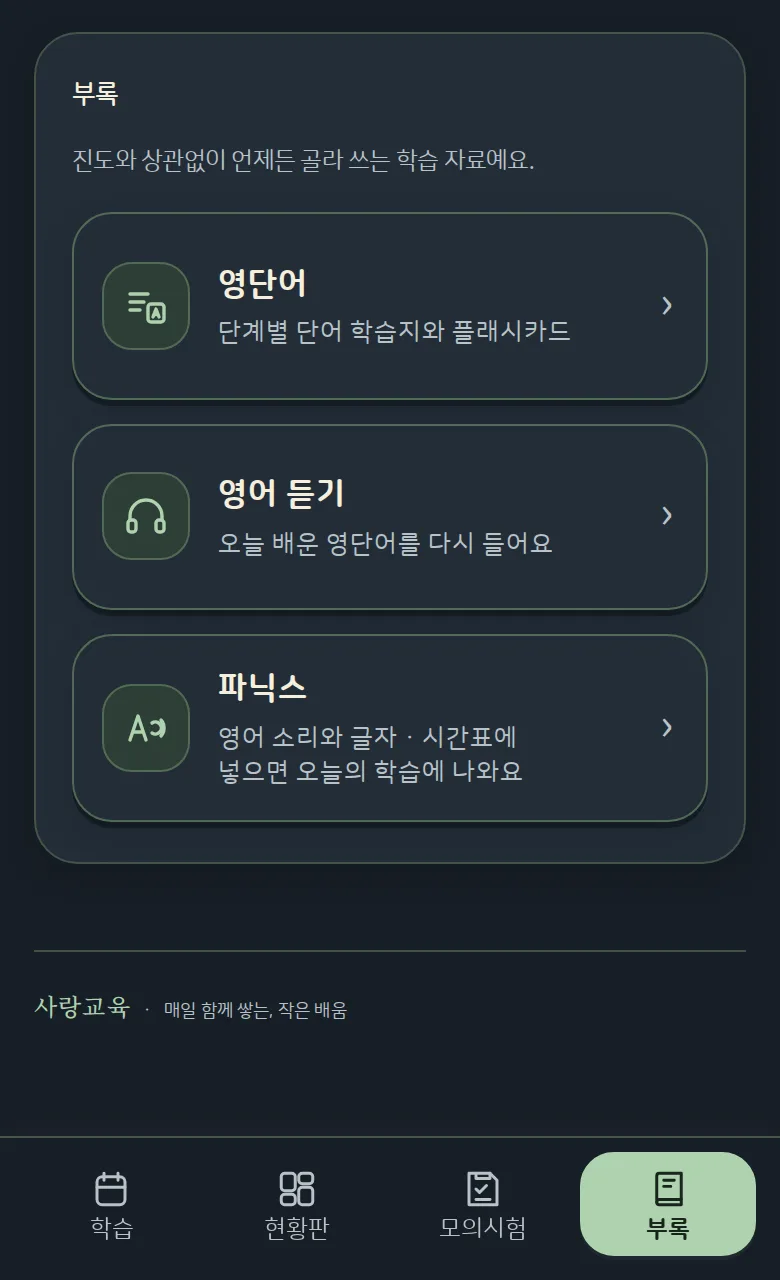
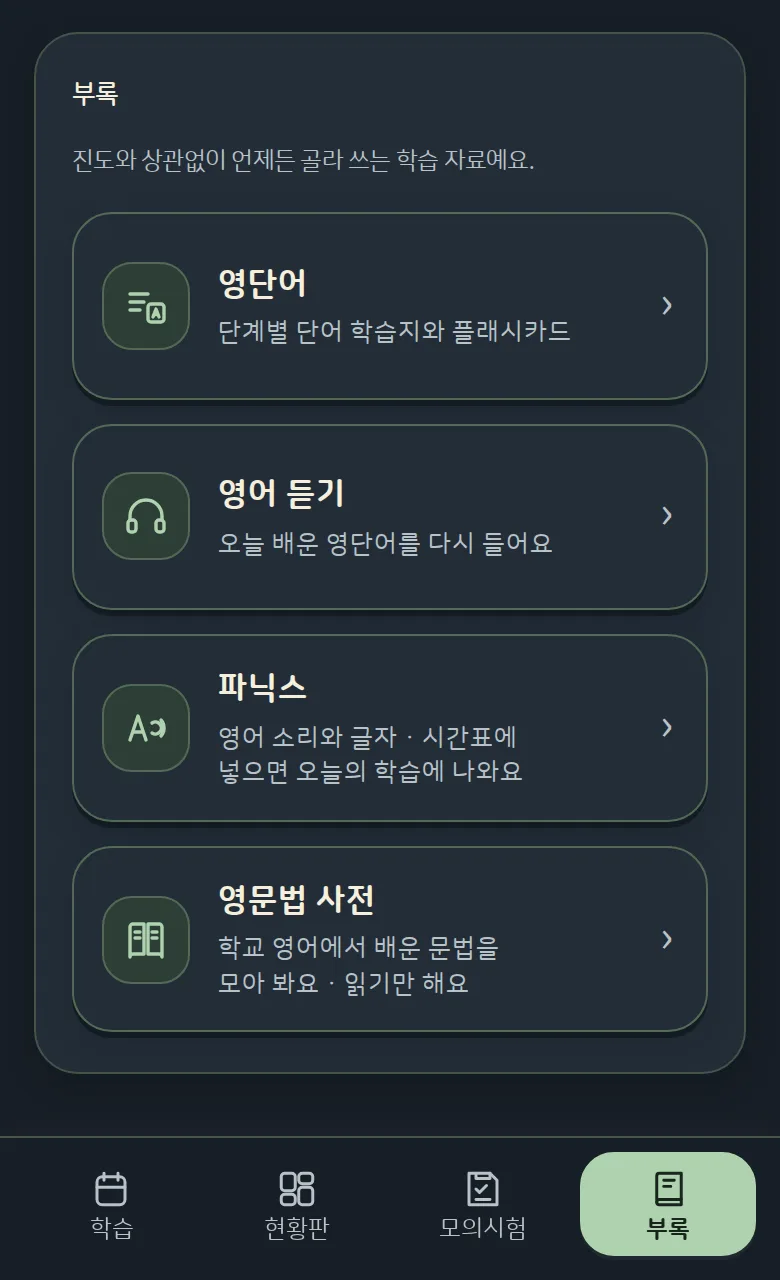
홈페이지: 앱 둘러보기 '부록'에 영문법 사전(앱 판 85 화면) + 아이 폰 줄, 가운뎃점이 줄 맨 앞에 오지 않게 (대표 '올려' 10-11 22:26 KST)
- 부록 사진 두 장(밝게·어둡게)을 실서비스 앱 판 85로 다시 찍음, 4번 영문법 사전 핀·설명, 알아 두기 글
- 아이 폰: '연속 공부' 달력 아래 줄로 영문법 사전을 읽는다는 글 한 줄(사진은 그대로)
- 보이는 둘러보기 글의 가운뎃점 앞에 줄바꿈 막는 글자(&#8288;·&nbsp;)
- 미리보기 https://claude.ai/artifact/XhQXysEFncDPNrRNu7N7NY 판 2와 같은 판(index 4a6a4c03)

Claude-Session: https://claude.ai/code/session_01KVwvdiiJmQkfRkdY87aTYe

diff --git a/index.html b/index.html
@@ -293,12 +293,12 @@ footer{margin-top:46px;padding:28px 0 30px;border-top:1px solid var(--line);font
 <div class="tv-head" data-anchor><h2 id="tv-study-h">오늘 할 공부가 차례대로 나와요</h2><p>시간표에 넣은 과목을, 과목마다 스마트(화면)나 프린트(종이)로 풀어요.</p></div>
 <div class="tv-tabs" role="tablist" aria-label="학습 화면" data-anchor><button type="button" role="tab" id="tv-study-t0" aria-controls="tv-study-s0" aria-selected="true" tabindex="0">오늘 목록</button><button type="button" role="tab" id="tv-study-t1" aria-controls="tv-study-s1" aria-selected="false" tabindex="-1">바로 풀기</button><button type="button" role="tab" id="tv-study-t2" aria-controls="tv-study-s2" aria-selected="false" tabindex="-1">프린트·숙제</button></div>
 <figure class="tv-phone" data-anchor><div class="tv-frame"><div class="tv-screens"><div class="tv-screen on" role="tabpanel" id="tv-study-s0" aria-labelledby="tv-study-t0"><picture><source media="(prefers-color-scheme: dark)" srcset="img/tour2/study-dark.webp"><img src="img/tour2/study-light.webp" width="390" height="640" decoding="async" alt="학습 화면 예시. 오늘의 학습 제목 아래 과목 카드가 차례대로 있고, 끝낸 과목에는 다 했어요가 붙어 있어요. 오른쪽 위에 아이 폰 연결과 아이 진도변경 단추가 있어요."></picture><span class="tv-hl" hidden></span><button type="button" class="tv-pin" data-n="1" data-box="2.82,3.28,34.62,15.16" style="left:41.54%;top:9.69%" aria-pressed="false" aria-label="1번 오늘의 학습">1</button><button type="button" class="tv-pin" data-n="2" data-box="3.33,19.06,93.33,25.62" style="left:89.74%;top:23.44%" aria-pressed="false" aria-label="2번 과목 카드">2</button><button type="button" class="tv-pin" data-n="3" data-box="16.41,34.22,33.33,8.12" style="left:53.33%;top:38.28%" aria-pressed="false" aria-label="3번 다 했어요">3</button><button type="button" class="tv-pin" data-n="4" data-box="68.72,1.88,27.95,16.25" style="left:64.1%;top:10%" aria-pressed="false" aria-label="4번 아이 폰 연결 · 아이 진도변경">4</button></div><div class="tv-screen" role="tabpanel" id="tv-study-s1" aria-labelledby="tv-study-t1"><picture><source media="(prefers-color-scheme: dark)" srcset="img/tour2/study-hint-dark.webp"><img src="img/tour2/study-hint-light.webp" width="390" height="640" loading="lazy" decoding="async" alt="스마트 학습 화면 예시. 과학 문제에 힌트 1이 열려 있고, 오른쪽에 한 번 더와 도와주세요 하트 단추가 있어요."></picture><span class="tv-hl" hidden></span><button type="button" class="tv-pin" data-n="1" data-box="3.33,0.62,46.67,8.12" style="left:52.82%;top:4.69%" aria-pressed="false" aria-label="1번 스마트 학습">1</button><button type="button" class="tv-pin" data-n="2" data-box="70.77,0.94,25.38,7.5" style="left:67.18%;top:4.69%" aria-pressed="false" aria-label="2번 부모님 보기">2</button><button type="button" class="tv-pin" data-n="3" data-box="13.33,25.94,78.97,10.78" style="left:90.26%;top:26.56%" aria-pressed="false" aria-label="3번 힌트">3</button><button type="button" class="tv-pin" data-n="4" data-box="12.31,37.66,81.03,32.5" style="left:86.67%;top:41.72%" aria-pressed="false" aria-label="4번 보기">4</button><button type="button" class="tv-pin" data-n="5" data-box="75.9,75.16,17.44,9.06" style="left:72.31%;top:73.44%" aria-pressed="false" aria-label="5번 도와주세요">5</button></div><div class="tv-screen" role="tabpanel" id="tv-study-s2" aria-labelledby="tv-study-t2"><picture><source media="(prefers-color-scheme: dark)" srcset="img/tour2/study-print-dark.webp"><img src="img/tour2/study-print-light.webp" width="390" height="640" loading="lazy" decoding="async" alt="학습 화면 아래쪽 예시. 과목 카드의 스마트와 프린트 단추, 오늘 공부를 끝내면 열리는 놀이 보상 칸, 전체 뽑아서 풀기, 가이드 PDF 함께 출력, 하늘에게 숙제 보내기가 있어요."></picture><span class="tv-hl" hidden></span><button type="button" class="tv-pin" data-n="1" data-box="16.92,17.19,76.41,8.12" style="left:11.79%;top:21.25%" aria-pressed="false" aria-label="1번 스마트 · 프린트">1</button><button type="button" class="tv-pin" data-n="2" data-box="3.33,31.09,93.33,24.84" style="left:93.33%;top:32.66%" aria-pressed="false" aria-label="2번 놀이 보상">2</button><button type="button" class="tv-pin" data-n="3" data-box="3.33,56.88,46.67,13.91" style="left:6.15%;top:58.44%" aria-pressed="false" aria-label="3번 전체 뽑아서 풀기">3</button><button type="button" class="tv-pin" data-n="4" data-box="50,56.88,46.67,13.91" style="left:93.33%;top:58.44%" aria-pressed="false" aria-label="4번 부모 가이드">4</button><button type="button" class="tv-pin" data-n="5" data-box="3.33,71.88,93.33,14.22" style="left:93.33%;top:73.44%" aria-pressed="false" aria-label="5번 숙제 보내기">5</button></div></div></div></figure>
-<div class="tv-legends"><ol class="tv-legend" aria-label="오늘 목록 화면 설명"><li data-anchor><button type="button" class="tv-key" data-n="1" aria-pressed="false"><span class="tv-no" aria-hidden="true">1</span><span class="tv-tx"><b>오늘의 학습</b><span class="d">시간표에 넣은 오늘 과목이 차례대로 나와요.</span></span></button></li><li data-anchor><button type="button" class="tv-key" data-n="2" aria-pressed="false"><span class="tv-no" aria-hidden="true">2</span><span class="tv-tx"><b>과목 카드</b><span class="d">오늘 배울 단원 이름과 진도(예: 2단원 11/14)가 보여요.</span></span></button></li><li data-anchor><button type="button" class="tv-key" data-n="3" aria-pressed="false"><span class="tv-no" aria-hidden="true">3</span><span class="tv-tx"><b>다 했어요</b><span class="d">끝낸 과목에는 푼 방법(스마트·프린트)과 함께 붙어요.</span></span></button></li><li data-anchor><button type="button" class="tv-key" data-n="4" aria-pressed="false"><span class="tv-no" aria-hidden="true">4</span><span class="tv-tx"><b>아이 폰 연결 · 아이 진도변경</b><span class="d">아이 폰을 잇고 끊는 단추와 과목 진도를 바꾸는 단추예요. 진도는 부모님이 과목마다 정하고, 학교 진도는 ‘○차시쯤’으로 참고만 보여 줘요.</span></span></button></li></ol><ol class="tv-legend" hidden aria-label="바로 풀기 화면 설명"><li data-anchor><button type="button" class="tv-key" data-n="1" aria-pressed="false"><span class="tv-no" aria-hidden="true">1</span><span class="tv-tx"><b>스마트 학습</b><span class="d">폰·태블릿·PC 화면에서 바로 풀어요.</span></span></button></li><li data-anchor><button type="button" class="tv-key" data-n="2" aria-pressed="false"><span class="tv-no" aria-hidden="true">2</span><span class="tv-tx"><b>부모님 보기</b><span class="d">켜면 가이드와 모든 정답·해설이 보여요.</span></span></button></li><li data-anchor><button type="button" class="tv-key" data-n="3" aria-pressed="false"><span class="tv-no" aria-hidden="true">3</span><span class="tv-tx"><b>힌트</b><span class="d">답 대신 생각할 거리를 줘요. ‘한 번 더’를 누르면 다음 힌트예요.</span></span></button></li><li data-anchor><button type="button" class="tv-key" data-n="4" aria-pressed="false"><span class="tv-no" aria-hidden="true">4</span><span class="tv-tx"><b>보기</b><span class="d">선택형·O/X는 고르면 바로 채점해요.</span></span></button></li><li data-anchor><button type="button" class="tv-key" data-n="5" aria-pressed="false"><span class="tv-no" aria-hidden="true">5</span><span class="tv-tx"><b>도와주세요</b><span class="d">막히면 하트를 눌러 힌트를 봐요. 정답은 알려 주지 않아요.</span></span></button></li></ol><ol class="tv-legend" hidden aria-label="프린트·숙제 화면 설명"><li data-anchor><button type="button" class="tv-key" data-n="1" aria-pressed="false"><span class="tv-no" aria-hidden="true">1</span><span class="tv-tx"><b>스마트 · 프린트</b><span class="d">과목마다 화면으로 풀지, 뽑아서 풀지 골라요.</span></span></button></li><li data-anchor><button type="button" class="tv-key" data-n="2" aria-pressed="false"><span class="tv-no" aria-hidden="true">2</span><span class="tv-tx"><b>놀이 보상</b><span class="d">유아기·초등은 오늘 공부를 다 하면 스티커 1장과 짝 맞추기 놀이가 열려요. 프린트로 푼 과목은 부모님이 ‘다 풀었어요’를 눌러야 세요. 모은 스티커는 ‘스티커판’에서 봐요.</span></span></button></li><li data-anchor><button type="button" class="tv-key" data-n="3" aria-pressed="false"><span class="tv-no" aria-hidden="true">3</span><span class="tv-tx"><b>전체 뽑아서 풀기</b><span class="d">오늘 과목을 PDF 한 파일로 모아 뽑아요.</span></span></button></li><li data-anchor><button type="button" class="tv-key" data-n="4" aria-pressed="false"><span class="tv-no" aria-hidden="true">4</span><span class="tv-tx"><b>부모 가이드</b><span class="d">오늘 배울 내용, 아이에게 물어볼 질문, 정답과 해설을 함께 뽑아요.</span></span></button></li><li data-anchor><button type="button" class="tv-key" data-n="5" aria-pressed="false"><span class="tv-no" aria-hidden="true">5</span><span class="tv-tx"><b>숙제 보내기</b><span class="d">오늘 학습·모의시험·영단어 퀴즈를 아이 폰으로 보내요. 초등부터 보여요.</span></span></button></li></ol></div>
-<p class="tv-tip" data-anchor><b>복습</b>대부분의 과목에서 바로 전 Day와 7·14·21·28 Day 전 내용이 복습 문제로 다시 나와요. 하루 복습 양은 늘지 않아요.</p>
+<div class="tv-legends"><ol class="tv-legend" aria-label="오늘 목록 화면 설명"><li data-anchor><button type="button" class="tv-key" data-n="1" aria-pressed="false"><span class="tv-no" aria-hidden="true">1</span><span class="tv-tx"><b>오늘의 학습</b><span class="d">시간표에 넣은 오늘 과목이 차례대로 나와요.</span></span></button></li><li data-anchor><button type="button" class="tv-key" data-n="2" aria-pressed="false"><span class="tv-no" aria-hidden="true">2</span><span class="tv-tx"><b>과목 카드</b><span class="d">오늘 배울 단원 이름과 진도(예: 2단원 11/14)가 보여요.</span></span></button></li><li data-anchor><button type="button" class="tv-key" data-n="3" aria-pressed="false"><span class="tv-no" aria-hidden="true">3</span><span class="tv-tx"><b>다 했어요</b><span class="d">끝낸 과목에는 푼 방법(스마트&#8288;·프린트)과 함께 붙어요.</span></span></button></li><li data-anchor><button type="button" class="tv-key" data-n="4" aria-pressed="false"><span class="tv-no" aria-hidden="true">4</span><span class="tv-tx"><b>아이 폰 연결&nbsp;· 아이 진도변경</b><span class="d">아이 폰을 잇고 끊는 단추와 과목 진도를 바꾸는 단추예요. 진도는 부모님이 과목마다 정하고, 학교 진도는 ‘○차시쯤’으로 참고만 보여 줘요.</span></span></button></li></ol><ol class="tv-legend" hidden aria-label="바로 풀기 화면 설명"><li data-anchor><button type="button" class="tv-key" data-n="1" aria-pressed="false"><span class="tv-no" aria-hidden="true">1</span><span class="tv-tx"><b>스마트 학습</b><span class="d">폰&#8288;·태블릿&#8288;·PC 화면에서 바로 풀어요.</span></span></button></li><li data-anchor><button type="button" class="tv-key" data-n="2" aria-pressed="false"><span class="tv-no" aria-hidden="true">2</span><span class="tv-tx"><b>부모님 보기</b><span class="d">켜면 가이드와 모든 정답&#8288;·해설이 보여요.</span></span></button></li><li data-anchor><button type="button" class="tv-key" data-n="3" aria-pressed="false"><span class="tv-no" aria-hidden="true">3</span><span class="tv-tx"><b>힌트</b><span class="d">답 대신 생각할 거리를 줘요. ‘한 번 더’를 누르면 다음 힌트예요.</span></span></button></li><li data-anchor><button type="button" class="tv-key" data-n="4" aria-pressed="false"><span class="tv-no" aria-hidden="true">4</span><span class="tv-tx"><b>보기</b><span class="d">선택형&#8288;·O/X는 고르면 바로 채점해요.</span></span></button></li><li data-anchor><button type="button" class="tv-key" data-n="5" aria-pressed="false"><span class="tv-no" aria-hidden="true">5</span><span class="tv-tx"><b>도와주세요</b><span class="d">막히면 하트를 눌러 힌트를 봐요. 정답은 알려 주지 않아요.</span></span></button></li></ol><ol class="tv-legend" hidden aria-label="프린트·숙제 화면 설명"><li data-anchor><button type="button" class="tv-key" data-n="1" aria-pressed="false"><span class="tv-no" aria-hidden="true">1</span><span class="tv-tx"><b>스마트&nbsp;· 프린트</b><span class="d">과목마다 화면으로 풀지, 뽑아서 풀지 골라요.</span></span></button></li><li data-anchor><button type="button" class="tv-key" data-n="2" aria-pressed="false"><span class="tv-no" aria-hidden="true">2</span><span class="tv-tx"><b>놀이 보상</b><span class="d">유아기&#8288;·초등은 오늘 공부를 다 하면 스티커 1장과 짝 맞추기 놀이가 열려요. 프린트로 푼 과목은 부모님이 ‘다 풀었어요’를 눌러야 세요. 모은 스티커는 ‘스티커판’에서 봐요.</span></span></button></li><li data-anchor><button type="button" class="tv-key" data-n="3" aria-pressed="false"><span class="tv-no" aria-hidden="true">3</span><span class="tv-tx"><b>전체 뽑아서 풀기</b><span class="d">오늘 과목을 PDF 한 파일로 모아 뽑아요.</span></span></button></li><li data-anchor><button type="button" class="tv-key" data-n="4" aria-pressed="false"><span class="tv-no" aria-hidden="true">4</span><span class="tv-tx"><b>부모 가이드</b><span class="d">오늘 배울 내용, 아이에게 물어볼 질문, 정답과 해설을 함께 뽑아요.</span></span></button></li><li data-anchor><button type="button" class="tv-key" data-n="5" aria-pressed="false"><span class="tv-no" aria-hidden="true">5</span><span class="tv-tx"><b>숙제 보내기</b><span class="d">오늘 학습&#8288;·모의시험&#8288;·영단어 퀴즈를 아이 폰으로 보내요. 초등부터 보여요.</span></span></button></li></ol></div>
+<p class="tv-tip" data-anchor><b>복습</b>대부분의 과목에서 바로 전 Day와 7&#8288;·14&#8288;·21&#8288;·28 Day 전 내용이 복습 문제로 다시 나와요. 하루 복습 양은 늘지 않아요.</p>
 <button type="button" class="tv-next">다음 기능: 현황판 →</button>
 </article>
 <article class="tv-sector" id="tv-dash" role="tabpanel" aria-labelledby="tvm-dash" hidden>
-<div class="tv-head" data-anchor><h2 id="tv-dash-h">아이 공부를 한눈에 봐요</h2><p>공부한 날·연속 공부·공부 시간을 보고, 시간표와 진도도 여기서 정해요.</p></div>
+<div class="tv-head" data-anchor><h2 id="tv-dash-h">아이 공부를 한눈에 봐요</h2><p>공부한 날&#8288;·연속 공부&#8288;·공부 시간을 보고, 시간표와 진도도 여기서 정해요.</p></div>
 <div class="tv-tabs" role="tablist" aria-label="현황판 화면" data-anchor><button type="button" role="tab" id="tv-dash-t0" aria-controls="tv-dash-s0" aria-selected="true" tabindex="0">한눈에 보기</button><button type="button" role="tab" id="tv-dash-t1" aria-controls="tv-dash-s1" aria-selected="false" tabindex="-1">메뉴</button></div>
 <figure class="tv-phone" data-anchor><div class="tv-frame"><div class="tv-screens"><div class="tv-screen on" role="tabpanel" id="tv-dash-s0" aria-labelledby="tv-dash-t0"><picture><source media="(prefers-color-scheme: dark)" srcset="img/tour2/dash-dark.webp"><img src="img/tour2/dash-light.webp" width="390" height="640" loading="lazy" decoding="async" alt="현황판 화면 예시. 이번 주 공부한 날, 연속 공부 날수, 이번 주 공부 시간이 보여요."></picture><span class="tv-hl" hidden></span><button type="button" class="tv-pin" data-n="1" data-box="3.85,31.09,44.87,19.06" style="left:44.1%;top:34.06%" aria-pressed="false" aria-label="1번 이번 주 공부한 날">1</button><button type="button" class="tv-pin" data-n="2" data-box="51.03,31.09,45.13,19.06" style="left:91.28%;top:34.06%" aria-pressed="false" aria-label="2번 연속 공부">2</button><button type="button" class="tv-pin" data-n="3" data-box="3.85,51.25,92.31,37.19" style="left:27.69%;top:56.09%" aria-pressed="false" aria-label="3번 공부 시간">3</button></div><div class="tv-screen" role="tabpanel" id="tv-dash-s1" aria-labelledby="tv-dash-t1"><picture><source media="(prefers-color-scheme: dark)" srcset="img/tour2/dash-menu-dark.webp"><img src="img/tour2/dash-menu-light.webp" width="390" height="640" loading="lazy" decoding="async" alt="현황판 메뉴 예시. 학습 현황(시간, 교육 성과), 학습 관리, 리포트, 숙제가 있어요."></picture><span class="tv-hl" hidden></span><button type="button" class="tv-pin" data-n="1" data-box="2.82,7.5,63.59,21.88" style="left:60.51%;top:11.25%" aria-pressed="false" aria-label="1번 학습 현황">1</button><button type="button" class="tv-pin" data-n="2" data-box="2.82,30,63.59,7.5" style="left:60.51%;top:33.75%" aria-pressed="false" aria-label="2번 학습 관리">2</button><button type="button" class="tv-pin" data-n="3" data-box="2.82,37.5,63.59,7.5" style="left:60.51%;top:41.25%" aria-pressed="false" aria-label="3번 리포트">3</button><button type="button" class="tv-pin" data-n="4" data-box="2.82,45,63.59,7.5" style="left:60.51%;top:48.75%" aria-pressed="false" aria-label="4번 숙제">4</button></div></div></div></figure>
 <div class="tv-legends"><ol class="tv-legend" aria-label="한눈에 보기 화면 설명"><li data-anchor><button type="button" class="tv-key" data-n="1" aria-pressed="false"><span class="tv-no" aria-hidden="true">1</span><span class="tv-tx"><b>이번 주 공부한 날</b><span class="d">월요일부터 오늘까지 공부한 날을 세요.</span></span></button></li><li data-anchor><button type="button" class="tv-key" data-n="2" aria-pressed="false"><span class="tv-no" aria-hidden="true">2</span><span class="tv-tx"><b>연속 공부</b><span class="d">쉬는 요일은 빼고 이어서 세요. 프린트로 푼 날은 부모님이 ‘다 풀었어요’를 누른 뒤에 세요. 놀이에서 모은 스티커가 있으면 그 수도 함께 보여요.</span></span></button></li><li data-anchor><button type="button" class="tv-key" data-n="3" aria-pressed="false"><span class="tv-no" aria-hidden="true">3</span><span class="tv-tx"><b>공부 시간</b><span class="d">스마트 학습은 푼 시간으로, 프린트는 뽑아서 푼 장 수로 보여요.</span></span></button></li></ol><ol class="tv-legend" hidden aria-label="메뉴 화면 설명"><li data-anchor><button type="button" class="tv-key" data-n="1" aria-pressed="false"><span class="tv-no" aria-hidden="true">1</span><span class="tv-tx"><b>학습 현황</b><span class="d">‘시간’과 ‘교육 성과’로 나뉘어요. 교육 성과에서 많이 틀린 단원과 틀린 문제 모음을 봐요.</span></span></button></li><li data-anchor><button type="button" class="tv-key" data-n="2" aria-pressed="false"><span class="tv-no" aria-hidden="true">2</span><span class="tv-tx"><b>학습 관리</b><span class="d">요일별 시간표와 과목 진도를 정해요. 과목마다 언제 끝나는지도 알려 줘요.</span></span></button></li><li data-anchor><button type="button" class="tv-key" data-n="3" aria-pressed="false"><span class="tv-no" aria-hidden="true">3</span><span class="tv-tx"><b>리포트</b><span class="d">지난 한 주와 지난달 공부를 정리해 보여 줘요.</span></span></button></li><li data-anchor><button type="button" class="tv-key" data-n="4" aria-pressed="false"><span class="tv-no" aria-hidden="true">4</span><span class="tv-tx"><b>숙제</b><span class="d">아이 폰으로 숙제를 보내고, 다 했는지와 점수를 봐요. 초등부터 보여요.</span></span></button></li></ol></div>
@@ -309,31 +309,31 @@ footer{margin-top:46px;padding:28px 0 30px;border-top:1px solid var(--line);font
 <div class="tv-head" data-anchor><h2 id="tv-exam-h">시험 전에는 모의시험을 뽑아요</h2><p>학기와 시험을 고르면, 시험 범위 단원의 객관식 문제를 PDF 한 파일로 만들어요.</p></div>
 <div class="tv-tabs" role="tablist" aria-label="모의시험 화면" data-anchor><button type="button" role="tab" id="tv-exam-t0" aria-controls="tv-exam-s0" aria-selected="true" tabindex="0">범위 고르기</button><button type="button" role="tab" id="tv-exam-t1" aria-controls="tv-exam-s1" aria-selected="false" tabindex="-1">PDF 만들기</button></div>
 <figure class="tv-phone" data-anchor><div class="tv-frame"><div class="tv-screens"><div class="tv-screen on" role="tabpanel" id="tv-exam-s0" aria-labelledby="tv-exam-t0"><picture><source media="(prefers-color-scheme: dark)" srcset="img/tour2/exam-dark.webp"><img src="img/tour2/exam-light.webp" width="390" height="640" loading="lazy" decoding="async" alt="모의시험 화면 예시. 학기, 중간고사와 기말고사, 과목당 문제 수를 고르고, 과목별 시험 범위 단원이 보여요."></picture><span class="tv-hl" hidden></span><button type="button" class="tv-pin" data-n="1" data-box="8.21,25.31,83.59,12.03" style="left:88.21%;top:27.5%" aria-pressed="false" aria-label="1번 학기 · 시험">1</button><button type="button" class="tv-pin" data-n="2" data-box="8.21,37.66,83.59,12.03" style="left:88.21%;top:39.84%" aria-pressed="false" aria-label="2번 과목당 문제 수">2</button><button type="button" class="tv-pin" data-n="3" data-box="8.21,50.31,83.59,38.44" style="left:61.54%;top:54.84%" aria-pressed="false" aria-label="3번 시험 범위">3</button></div><div class="tv-screen" role="tabpanel" id="tv-exam-s1" aria-labelledby="tv-exam-t1"><picture><source media="(prefers-color-scheme: dark)" srcset="img/tour2/exam-pdf-dark.webp"><img src="img/tour2/exam-pdf-light.webp" width="390" height="640" loading="lazy" decoding="async" alt="모의시험 화면 아래쪽 예시. 과목별 범위와 문제 수, 한자는 문제가 없어 빠진다는 안내, 모의시험 PDF 만들기 단추가 있어요."></picture><span class="tv-hl" hidden></span><button type="button" class="tv-pin" data-n="1" data-box="8.21,65.78,61.54,4.69" style="left:64.1%;top:68.12%" aria-pressed="false" aria-label="1번 빠지는 과목">1</button><button type="button" class="tv-pin" data-n="2" data-box="8.21,71.56,83.59,8.59" style="left:88.21%;top:73.12%" aria-pressed="false" aria-label="2번 PDF 만들기">2</button></div></div></div></figure>
-<div class="tv-legends"><ol class="tv-legend" aria-label="범위 고르기 화면 설명"><li data-anchor><button type="button" class="tv-key" data-n="1" aria-pressed="false"><span class="tv-no" aria-hidden="true">1</span><span class="tv-tx"><b>학기 · 시험</b><span class="d">1·2학기와 중간·기말고사를 골라요.</span></span></button></li><li data-anchor><button type="button" class="tv-key" data-n="2" aria-pressed="false"><span class="tv-no" aria-hidden="true">2</span><span class="tv-tx"><b>과목당 문제 수</b><span class="d">20·30·40문제 가운데 골라요. 문제가 모자라면 있는 만큼 넣어요.</span></span></button></li><li data-anchor><button type="button" class="tv-key" data-n="3" aria-pressed="false"><span class="tv-no" aria-hidden="true">3</span><span class="tv-tx"><b>시험 범위</b><span class="d">고른 시험의 범위 단원이 과목마다 보여요.</span></span></button></li></ol><ol class="tv-legend" hidden aria-label="PDF 만들기 화면 설명"><li data-anchor><button type="button" class="tv-key" data-n="1" aria-pressed="false"><span class="tv-no" aria-hidden="true">1</span><span class="tv-tx"><b>빠지는 과목</b><span class="d">문제가 없는 과목은 빠진다고 미리 알려 줘요.</span></span></button></li><li data-anchor><button type="button" class="tv-key" data-n="2" aria-pressed="false"><span class="tv-no" aria-hidden="true">2</span><span class="tv-tx"><b>PDF 만들기</b><span class="d">한 파일로 뽑아요. 정답과 해설은 맨 뒤에 모여 있어 채점하기 쉬워요.</span></span></button></li></ol></div>
-<p class="tv-tip" data-anchor><b>과목</b>시험 범위에 문제가 20개 이상 있는 과목이 들어가요. 초1~2는 국어와, 선행학습으로 더한 사회·과학·한국사가 대상이에요.</p>
+<div class="tv-legends"><ol class="tv-legend" aria-label="범위 고르기 화면 설명"><li data-anchor><button type="button" class="tv-key" data-n="1" aria-pressed="false"><span class="tv-no" aria-hidden="true">1</span><span class="tv-tx"><b>학기&nbsp;· 시험</b><span class="d">1&#8288;·2학기와 중간&#8288;·기말고사를 골라요.</span></span></button></li><li data-anchor><button type="button" class="tv-key" data-n="2" aria-pressed="false"><span class="tv-no" aria-hidden="true">2</span><span class="tv-tx"><b>과목당 문제 수</b><span class="d">20&#8288;·30&#8288;·40문제 가운데 골라요. 문제가 모자라면 있는 만큼 넣어요.</span></span></button></li><li data-anchor><button type="button" class="tv-key" data-n="3" aria-pressed="false"><span class="tv-no" aria-hidden="true">3</span><span class="tv-tx"><b>시험 범위</b><span class="d">고른 시험의 범위 단원이 과목마다 보여요.</span></span></button></li></ol><ol class="tv-legend" hidden aria-label="PDF 만들기 화면 설명"><li data-anchor><button type="button" class="tv-key" data-n="1" aria-pressed="false"><span class="tv-no" aria-hidden="true">1</span><span class="tv-tx"><b>빠지는 과목</b><span class="d">문제가 없는 과목은 빠진다고 미리 알려 줘요.</span></span></button></li><li data-anchor><button type="button" class="tv-key" data-n="2" aria-pressed="false"><span class="tv-no" aria-hidden="true">2</span><span class="tv-tx"><b>PDF 만들기</b><span class="d">한 파일로 뽑아요. 정답과 해설은 맨 뒤에 모여 있어 채점하기 쉬워요.</span></span></button></li></ol></div>
+<p class="tv-tip" data-anchor><b>과목</b>시험 범위에 문제가 20개 이상 있는 과목이 들어가요. 초1~2는 국어와, 선행학습으로 더한 사회&#8288;·과학&#8288;·한국사가 대상이에요.</p>
 <button type="button" class="tv-next">다음 기능: 부록 →</button>
 </article>
 <article class="tv-sector" id="tv-extra" role="tabpanel" aria-labelledby="tvm-extra" hidden>
 <div class="tv-head" data-anchor><h2 id="tv-extra-h">진도와 상관없이 언제든 골라 써요</h2><p>날마다 하는 진도와 따로, 필요할 때 골라 쓰는 학습 자료예요.</p></div>
 <div class="tv-tabs" role="tablist" aria-label="부록 화면" data-anchor><button type="button" role="tab" id="tv-extra-t0" aria-controls="tv-extra-s0" aria-selected="true" tabindex="0">부록 목록</button><button type="button" role="tab" id="tv-extra-t1" aria-controls="tv-extra-s1" aria-selected="false" tabindex="-1">플래시카드</button></div>
-<figure class="tv-phone" data-anchor><div class="tv-frame"><div class="tv-screens"><div class="tv-screen on" role="tabpanel" id="tv-extra-s0" aria-labelledby="tv-extra-t0"><picture><source media="(prefers-color-scheme: dark)" srcset="img/tour2/extra-dark.webp"><img src="img/tour2/extra-light.webp" width="390" height="640" loading="lazy" decoding="async" alt="부록 화면 예시. 영단어, 영어 듣기, 파닉스가 있어요."></picture><span class="tv-hl" hidden></span><button type="button" class="tv-pin" data-n="1" data-box="8.21,15.94,83.59,15.94" style="left:88.21%;top:18.12%" aria-pressed="false" aria-label="1번 영단어">1</button><button type="button" class="tv-pin" data-n="2" data-box="8.21,32.5,83.59,15.94" style="left:88.21%;top:34.69%" aria-pressed="false" aria-label="2번 영어 듣기">2</button><button type="button" class="tv-pin" data-n="3" data-box="8.21,48.91,83.59,15.94" style="left:88.21%;top:51.09%" aria-pressed="false" aria-label="3번 파닉스">3</button></div><div class="tv-screen" role="tabpanel" id="tv-extra-s1" aria-labelledby="tv-extra-t1"><picture><source media="(prefers-color-scheme: dark)" srcset="img/tour2/extra-fc-dark.webp"><img src="img/tour2/extra-fc-light.webp" width="390" height="640" loading="lazy" decoding="async" alt="영단어 플래시카드 화면 예시. 초3~4학년 영단어 1~15번 가운데 첫 카드 mother가 보여요."></picture><span class="tv-hl" hidden></span><button type="button" class="tv-pin" data-n="1" data-box="23.33,2.5,73.59,5" style="left:52.56%;top:8.75%" aria-pressed="false" aria-label="1번 단계 · 번호">1</button><button type="button" class="tv-pin" data-n="2" data-box="59.74,10,37.18,8.12" style="left:56.92%;top:14.06%" aria-pressed="false" aria-label="2번 섞기 · 뜻 먼저">2</button><button type="button" class="tv-pin" data-n="3" data-box="4.1,19.38,91.79,59.38" style="left:90.77%;top:22.5%" aria-pressed="false" aria-label="3번 카드">3</button><button type="button" class="tv-pin" data-n="4" data-box="3.08,89.38,93.85,8.75" style="left:50%;top:87.5%" aria-pressed="false" aria-label="4번 뒤집기 · 이전 · 다음">4</button></div></div></div></figure>
-<div class="tv-legends"><ol class="tv-legend" aria-label="부록 목록 화면 설명"><li data-anchor><button type="button" class="tv-key" data-n="1" aria-pressed="false"><span class="tv-no" aria-hidden="true">1</span><span class="tv-tx"><b>영단어</b><span class="d">단계별 단어 학습지와 플래시카드로 익히고, 외웠는지 확인해요.</span></span></button></li><li data-anchor><button type="button" class="tv-key" data-n="2" aria-pressed="false"><span class="tv-no" aria-hidden="true">2</span><span class="tv-tx"><b>영어 듣기</b><span class="d">오늘 배운 영단어를 다시 들어요.</span></span></button></li><li data-anchor><button type="button" class="tv-key" data-n="3" aria-pressed="false"><span class="tv-no" aria-hidden="true">3</span><span class="tv-tx"><b>파닉스</b><span class="d">초3~6은 영어 소리와 글자를 여기서 익혀요. 시간표에 넣으면 오늘의 학습에 나와요.</span></span></button></li></ol><ol class="tv-legend" hidden aria-label="플래시카드 화면 설명"><li data-anchor><button type="button" class="tv-key" data-n="1" aria-pressed="false"><span class="tv-no" aria-hidden="true">1</span><span class="tv-tx"><b>단계 · 번호</b><span class="d">학습지와 같은 단어 묶음을 카드로 넘겨 봐요.</span></span></button></li><li data-anchor><button type="button" class="tv-key" data-n="2" aria-pressed="false"><span class="tv-no" aria-hidden="true">2</span><span class="tv-tx"><b>섞기 · 뜻 먼저</b><span class="d">순서를 섞거나 뜻부터 보여 줘요.</span></span></button></li><li data-anchor><button type="button" class="tv-key" data-n="3" aria-pressed="false"><span class="tv-no" aria-hidden="true">3</span><span class="tv-tx"><b>카드</b><span class="d">앞면은 영어와 읽는 소리, 누르면 뒷면에 뜻이 나와요.</span></span></button></li><li data-anchor><button type="button" class="tv-key" data-n="4" aria-pressed="false"><span class="tv-no" aria-hidden="true">4</span><span class="tv-tx"><b>뒤집기 · 이전 · 다음</b><span class="d">뒤집은 뒤 ‘알아요’·‘헷갈려요’를 고르면, 끝에 헷갈린 카드만 다시 봐요.</span></span></button></li></ol></div>
-<p class="tv-tip" data-anchor><b>보이는 것</b>아이 학년과 고른 과목에 따라 달라요. 영어를 고르면 영단어와 영어 듣기가 나와요.</p>
+<figure class="tv-phone" data-anchor><div class="tv-frame"><div class="tv-screens"><div class="tv-screen on" role="tabpanel" id="tv-extra-s0" aria-labelledby="tv-extra-t0"><picture><source media="(prefers-color-scheme: dark)" srcset="img/tour2/extra-dark.webp"><img src="img/tour2/extra-light.webp" width="390" height="640" loading="lazy" decoding="async" alt="부록 화면 예시. 영단어, 영어 듣기, 파닉스, 영문법 사전이 있어요."></picture><span class="tv-hl" hidden></span><button type="button" class="tv-pin" data-n="1" data-box="8.21,15.94,83.59,15.94" style="left:88.21%;top:18.12%" aria-pressed="false" aria-label="1번 영단어">1</button><button type="button" class="tv-pin" data-n="2" data-box="8.21,32.5,83.59,15.94" style="left:88.21%;top:34.69%" aria-pressed="false" aria-label="2번 영어 듣기">2</button><button type="button" class="tv-pin" data-n="3" data-box="8.21,48.91,83.59,15.94" style="left:88.21%;top:51.09%" aria-pressed="false" aria-label="3번 파닉스">3</button><button type="button" class="tv-pin" data-n="4" data-box="8.21,65.47,83.59,15.94" style="left:88.21%;top:67.66%" aria-pressed="false" aria-label="4번 영문법 사전">4</button></div><div class="tv-screen" role="tabpanel" id="tv-extra-s1" aria-labelledby="tv-extra-t1"><picture><source media="(prefers-color-scheme: dark)" srcset="img/tour2/extra-fc-dark.webp"><img src="img/tour2/extra-fc-light.webp" width="390" height="640" loading="lazy" decoding="async" alt="영단어 플래시카드 화면 예시. 초3~4학년 영단어 1~15번 가운데 첫 카드 mother가 보여요."></picture><span class="tv-hl" hidden></span><button type="button" class="tv-pin" data-n="1" data-box="23.33,2.5,73.59,5" style="left:52.56%;top:8.75%" aria-pressed="false" aria-label="1번 단계 · 번호">1</button><button type="button" class="tv-pin" data-n="2" data-box="59.74,10,37.18,8.12" style="left:56.92%;top:14.06%" aria-pressed="false" aria-label="2번 섞기 · 뜻 먼저">2</button><button type="button" class="tv-pin" data-n="3" data-box="4.1,19.38,91.79,59.38" style="left:90.77%;top:22.5%" aria-pressed="false" aria-label="3번 카드">3</button><button type="button" class="tv-pin" data-n="4" data-box="3.08,89.38,93.85,8.75" style="left:50%;top:87.5%" aria-pressed="false" aria-label="4번 뒤집기 · 이전 · 다음">4</button></div></div></div></figure>
+<div class="tv-legends"><ol class="tv-legend" aria-label="부록 목록 화면 설명"><li data-anchor><button type="button" class="tv-key" data-n="1" aria-pressed="false"><span class="tv-no" aria-hidden="true">1</span><span class="tv-tx"><b>영단어</b><span class="d">단계별 단어 학습지와 플래시카드로 익히고, 외웠는지 확인해요.</span></span></button></li><li data-anchor><button type="button" class="tv-key" data-n="2" aria-pressed="false"><span class="tv-no" aria-hidden="true">2</span><span class="tv-tx"><b>영어 듣기</b><span class="d">오늘 배운 영단어를 다시 들어요.</span></span></button></li><li data-anchor><button type="button" class="tv-key" data-n="3" aria-pressed="false"><span class="tv-no" aria-hidden="true">3</span><span class="tv-tx"><b>파닉스</b><span class="d">초3~6은 영어 소리와 글자를 여기서 익혀요. 시간표에 넣으면 오늘의 학습에 나와요.</span></span></button></li><li data-anchor><button type="button" class="tv-key" data-n="4" aria-pressed="false"><span class="tv-no" aria-hidden="true">4</span><span class="tv-tx"><b>영문법 사전</b><span class="d">영어를 고른 초3 이상, 지금 공부하는 학년까지 나온 문법을 종류별로 읽어요. 시험&#8288;·숙제&#8288;·기록은 없어요.</span></span></button></li></ol><ol class="tv-legend" hidden aria-label="플래시카드 화면 설명"><li data-anchor><button type="button" class="tv-key" data-n="1" aria-pressed="false"><span class="tv-no" aria-hidden="true">1</span><span class="tv-tx"><b>단계&nbsp;· 번호</b><span class="d">학습지와 같은 단어 묶음을 카드로 넘겨 봐요.</span></span></button></li><li data-anchor><button type="button" class="tv-key" data-n="2" aria-pressed="false"><span class="tv-no" aria-hidden="true">2</span><span class="tv-tx"><b>섞기&nbsp;· 뜻 먼저</b><span class="d">순서를 섞거나 뜻부터 보여 줘요.</span></span></button></li><li data-anchor><button type="button" class="tv-key" data-n="3" aria-pressed="false"><span class="tv-no" aria-hidden="true">3</span><span class="tv-tx"><b>카드</b><span class="d">앞면은 영어와 읽는 소리, 누르면 뒷면에 뜻이 나와요.</span></span></button></li><li data-anchor><button type="button" class="tv-key" data-n="4" aria-pressed="false"><span class="tv-no" aria-hidden="true">4</span><span class="tv-tx"><b>뒤집기&nbsp;· 이전&nbsp;· 다음</b><span class="d">뒤집은 뒤 ‘알아요’&#8288;·‘헷갈려요’를 고르면, 끝에 헷갈린 카드만 다시 봐요.</span></span></button></li></ol></div>
+<p class="tv-tip" data-anchor><b>보이는 것</b>아이 학년과 고른 과목에 따라 달라요. 영어를 고르면 영단어와 영어 듣기가, 초3부터는 영문법 사전도 나와요.</p>
 <button type="button" class="tv-next">다음 기능: 아이 폰 →</button>
 </article>
 <article class="tv-sector" id="tv-kid" role="tabpanel" aria-labelledby="tvm-kid" hidden>
-<div class="tv-head" data-anchor><h2 id="tv-kid-h">아이 폰에는 공부만 나와요</h2><p>부모 폰의 ‘아이 폰 연결’로 링크를 보내면, 로그인 없이 그 아이 전용 공부 폰이 돼요. 프린트·진도 설정·현황판은 부모 폰에서 해요.</p></div>
+<div class="tv-head" data-anchor><h2 id="tv-kid-h">아이 폰에는 공부만 나와요</h2><p>부모 폰의 ‘아이 폰 연결’로 링크를 보내면, 로그인 없이 그 아이 전용 공부 폰이 돼요. 프린트&#8288;·진도 설정&#8288;·현황판은 부모 폰에서 해요.</p></div>
 <div class="tv-tabs" data-anchor><p class="tv-one">숙제·연속 공부</p></div>
 <figure class="tv-phone" data-anchor><div class="tv-frame"><div class="tv-screens"><div class="tv-screen on"><picture><source media="(prefers-color-scheme: dark)" srcset="img/tour2/kid-dark.webp"><img src="img/tour2/kid-light.webp" width="390" height="640" loading="lazy" decoding="async" alt="아이 폰 화면 예시. 숙제 목록 아래쪽과, 다 했어요 도장이 찍힌 연속 공부 달력이 보여요."></picture><span class="tv-hl" hidden></span><button type="button" class="tv-pin" data-n="1" data-box="3.59,0.62,92.82,23.75" style="left:56.41%;top:4.38%" aria-pressed="false" aria-label="1번 숙제">1</button><button type="button" class="tv-pin" data-n="2" data-box="3.59,32.81,92.82,10" style="left:51.28%;top:36.09%" aria-pressed="false" aria-label="2번 연속 공부">2</button><button type="button" class="tv-pin" data-n="3" data-box="3.59,43.44,92.82,51.56" style="left:38.46%;top:58.13%" aria-pressed="false" aria-label="3번 도장 달력">3</button></div></div></div></figure>
-<div class="tv-legends"><ol class="tv-legend" aria-label="숙제·연속 공부 화면 설명"><li data-anchor><button type="button" class="tv-key" data-n="1" aria-pressed="false"><span class="tv-no" aria-hidden="true">1</span><span class="tv-tx"><b>숙제</b><span class="d">부모님이 보낸 숙제가 떠요. 끝내면 ‘다 했어요’가 붙고, 점수는 부모 화면에만 보여요.</span></span></button></li><li data-anchor><button type="button" class="tv-key" data-n="2" aria-pressed="false"><span class="tv-no" aria-hidden="true">2</span><span class="tv-tx"><b>연속 공부</b><span class="d">그날 할 일을 다 하면 이어서 세요.</span></span></button></li><li data-anchor><button type="button" class="tv-key" data-n="3" aria-pressed="false"><span class="tv-no" aria-hidden="true">3</span><span class="tv-tx"><b>도장 달력</b><span class="d">다 한 날에는 ‘다 했어요’ 도장이 찍혀요. 프린트로 한 날은 부모님이 확인하면 찍혀요.</span></span></button></li><li class="tv-note" data-anchor><span class="tv-no tv-dot" aria-hidden="true"></span><span class="tv-tx"><b>숙제는 초등부터</b><span class="d">유아기(5~7세)는 아이 폰에서 스마트 학습만 해요.</span></span></li></ol></div>
+<div class="tv-legends"><ol class="tv-legend" aria-label="숙제·연속 공부 화면 설명"><li data-anchor><button type="button" class="tv-key" data-n="1" aria-pressed="false"><span class="tv-no" aria-hidden="true">1</span><span class="tv-tx"><b>숙제</b><span class="d">부모님이 보낸 숙제가 떠요. 끝내면 ‘다 했어요’가 붙고, 점수는 부모 화면에만 보여요.</span></span></button></li><li data-anchor><button type="button" class="tv-key" data-n="2" aria-pressed="false"><span class="tv-no" aria-hidden="true">2</span><span class="tv-tx"><b>연속 공부</b><span class="d">그날 할 일을 다 하면 이어서 세요.</span></span></button></li><li data-anchor><button type="button" class="tv-key" data-n="3" aria-pressed="false"><span class="tv-no" aria-hidden="true">3</span><span class="tv-tx"><b>도장 달력</b><span class="d">다 한 날에는 ‘다 했어요’ 도장이 찍혀요. 프린트로 한 날은 부모님이 확인하면 찍혀요.</span></span></button></li><li class="tv-note" data-anchor><span class="tv-no tv-dot" aria-hidden="true"></span><span class="tv-tx"><b>숙제는 초등부터</b><span class="d">유아기(5~7세)는 아이 폰에서 스마트 학습만 해요.</span></span></li><li class="tv-note" data-anchor><span class="tv-no tv-dot" aria-hidden="true"></span><span class="tv-tx"><b>영문법 사전</b><span class="d">영어를 고른 초3 이상은 아이 폰에서도 ‘연속 공부’ 달력 아래 줄을 눌러 영문법 사전을 읽어요.</span></span></li></ol></div>
 <p class="tv-tip" data-anchor><b>연결 링크</b>24시간 안에 한 번만 쓸 수 있어요.</p>
 <button type="button" class="tv-next">다음 기능: 영아기 놀이 →</button>
 </article>
 <article class="tv-sector" id="tv-play" role="tabpanel" aria-labelledby="tvm-play" hidden>
-<div class="tv-head" data-anchor><h2 id="tv-play-h">영아기 2~4세는 놀이로 시작해요</h2><p>아래 메뉴가 놀이 모음·현황판·화면 놀이로 바뀌어요. 뽑아서 놀거나, 화면에서 손가락으로 놀아요.</p></div>
+<div class="tv-head" data-anchor><h2 id="tv-play-h">영아기 2~4세는 놀이로 시작해요</h2><p>아래 메뉴가 놀이 모음&#8288;·현황판&#8288;·화면 놀이로 바뀌어요. 뽑아서 놀거나, 화면에서 손가락으로 놀아요.</p></div>
 <div class="tv-tabs" role="tablist" aria-label="영아기 놀이 화면" data-anchor><button type="button" role="tab" id="tv-play-t0" aria-controls="tv-play-s0" aria-selected="true" tabindex="0">놀이 모음</button><button type="button" role="tab" id="tv-play-t1" aria-controls="tv-play-s1" aria-selected="false" tabindex="-1">화면 놀이</button></div>
 <figure class="tv-phone" data-anchor><div class="tv-frame"><div class="tv-screens"><div class="tv-screen on" role="tabpanel" id="tv-play-s0" aria-labelledby="tv-play-t0"><picture><source media="(prefers-color-scheme: dark)" srcset="img/tour2/play-dark.webp"><img src="img/tour2/play-light.webp" width="390" height="640" loading="lazy" decoding="async" alt="놀이 모음 화면 예시. 3세 놀이 표시와 난이도, 선 긋기·같은 그림 찾기·색칠놀이 같은 놀이 카드, 뽑기 단추가 있어요."></picture><span class="tv-hl" hidden></span><button type="button" class="tv-pin" data-n="1" data-box="72.82,6.56,18.97,5.47" style="left:69.74%;top:9.22%" aria-pressed="false" aria-label="1번 나이">1</button><button type="button" class="tv-pin" data-n="2" data-box="8.21,16.72,61.03,8.12" style="left:72.82%;top:20.78%" aria-pressed="false" aria-label="2번 난이도">2</button><button type="button" class="tv-pin" data-n="3" data-box="8.21,24.53,83.59,54.69" style="left:91.28%;top:25.47%" aria-pressed="false" aria-label="3번 놀이 카드">3</button><button type="button" class="tv-pin" data-n="4" data-box="8.46,79.53,83.08,9.06" style="left:91.28%;top:79.84%" aria-pressed="false" aria-label="4번 뽑기">4</button><button type="button" class="tv-pin" data-n="5" data-box="2.05,89.38,95.9,9.38" style="left:50%;top:89.06%" aria-pressed="false" aria-label="5번 아래 메뉴">5</button></div><div class="tv-screen" role="tabpanel" id="tv-play-s1" aria-labelledby="tv-play-t1"><picture><source media="(prefers-color-scheme: dark)" srcset="img/tour2/play-game-dark.webp"><img src="img/tour2/play-game-light.webp" width="390" height="640" loading="lazy" decoding="async" alt="화면 놀이 예시. 같은 그림 찾기 놀이에서 눈사람, 실로폰, 옥수수, 치마 그림 가운데 똑같은 그림을 찾아요."></picture><span class="tv-hl" hidden></span><button type="button" class="tv-pin" data-n="1" data-box="18.97,1.88,78.97,7.5" style="left:64.1%;top:5.62%" aria-pressed="false" aria-label="1번 놀이 이름">1</button><button type="button" class="tv-pin" data-n="2" data-box="1.54,26.88,96.92,57.5" style="left:92.82%;top:33.44%" aria-pressed="false" aria-label="2번 같은 그림 찾기">2</button><button type="button" class="tv-pin" data-n="3" data-box="2.56,0.94,15.38,9.38" style="left:17.95%;top:10.31%" aria-pressed="false" aria-label="3번 닫기">3</button></div></div></div></figure>
-<div class="tv-legends"><ol class="tv-legend" aria-label="놀이 모음 화면 설명"><li data-anchor><button type="button" class="tv-key" data-n="1" aria-pressed="false"><span class="tv-no" aria-hidden="true">1</span><span class="tv-tx"><b>나이</b><span class="d">아이 나이에 맞춘 놀이가 나와요.</span></span></button></li><li data-anchor><button type="button" class="tv-key" data-n="2" aria-pressed="false"><span class="tv-no" aria-hidden="true">2</span><span class="tv-tx"><b>난이도</b><span class="d">쉬움·보통·어려움으로 골라요.</span></span></button></li><li data-anchor><button type="button" class="tv-key" data-n="3" aria-pressed="false"><span class="tv-no" aria-hidden="true">3</span><span class="tv-tx"><b>놀이 카드</b><span class="d">선 긋기·같은 그림 찾기·색칠놀이·미로 같은 놀이를 눌러 담아요.</span></span></button></li><li data-anchor><button type="button" class="tv-key" data-n="4" aria-pressed="false"><span class="tv-no" aria-hidden="true">4</span><span class="tv-tx"><b>뽑기</b><span class="d">담은 놀이를 한 번에 뽑거나, 섞어서 5장을 뽑아요.</span></span></button></li><li data-anchor><button type="button" class="tv-key" data-n="5" aria-pressed="false"><span class="tv-no" aria-hidden="true">5</span><span class="tv-tx"><b>아래 메뉴</b><span class="d">현황판에서는 논 날·연속 놀이·놀이 시간을 봐요.</span></span></button></li></ol><ol class="tv-legend" hidden aria-label="화면 놀이 화면 설명"><li data-anchor><button type="button" class="tv-key" data-n="1" aria-pressed="false"><span class="tv-no" aria-hidden="true">1</span><span class="tv-tx"><b>놀이 이름</b><span class="d">‘화면 놀이’에서 고른 놀이를 폰 화면에서 해요.</span></span></button></li><li data-anchor><button type="button" class="tv-key" data-n="2" aria-pressed="false"><span class="tv-no" aria-hidden="true">2</span><span class="tv-tx"><b>같은 그림 찾기</b><span class="d">왼쪽 그림과 똑같은 그림을 찾아 손가락으로 ○ 해요.</span></span></button></li><li data-anchor><button type="button" class="tv-key" data-n="3" aria-pressed="false"><span class="tv-no" aria-hidden="true">3</span><span class="tv-tx"><b>닫기</b><span class="d">길게 눌러야 닫혀서, 놀다가 잘못 닫히지 않아요.</span></span></button></li></ol></div>
+<div class="tv-legends"><ol class="tv-legend" aria-label="놀이 모음 화면 설명"><li data-anchor><button type="button" class="tv-key" data-n="1" aria-pressed="false"><span class="tv-no" aria-hidden="true">1</span><span class="tv-tx"><b>나이</b><span class="d">아이 나이에 맞춘 놀이가 나와요.</span></span></button></li><li data-anchor><button type="button" class="tv-key" data-n="2" aria-pressed="false"><span class="tv-no" aria-hidden="true">2</span><span class="tv-tx"><b>난이도</b><span class="d">쉬움&#8288;·보통&#8288;·어려움으로 골라요.</span></span></button></li><li data-anchor><button type="button" class="tv-key" data-n="3" aria-pressed="false"><span class="tv-no" aria-hidden="true">3</span><span class="tv-tx"><b>놀이 카드</b><span class="d">선 긋기&#8288;·같은 그림 찾기&#8288;·색칠놀이&#8288;·미로 같은 놀이를 눌러 담아요.</span></span></button></li><li data-anchor><button type="button" class="tv-key" data-n="4" aria-pressed="false"><span class="tv-no" aria-hidden="true">4</span><span class="tv-tx"><b>뽑기</b><span class="d">담은 놀이를 한 번에 뽑거나, 섞어서 5장을 뽑아요.</span></span></button></li><li data-anchor><button type="button" class="tv-key" data-n="5" aria-pressed="false"><span class="tv-no" aria-hidden="true">5</span><span class="tv-tx"><b>아래 메뉴</b><span class="d">현황판에서는 논 날&#8288;·연속 놀이&#8288;·놀이 시간을 봐요.</span></span></button></li></ol><ol class="tv-legend" hidden aria-label="화면 놀이 화면 설명"><li data-anchor><button type="button" class="tv-key" data-n="1" aria-pressed="false"><span class="tv-no" aria-hidden="true">1</span><span class="tv-tx"><b>놀이 이름</b><span class="d">‘화면 놀이’에서 고른 놀이를 폰 화면에서 해요.</span></span></button></li><li data-anchor><button type="button" class="tv-key" data-n="2" aria-pressed="false"><span class="tv-no" aria-hidden="true">2</span><span class="tv-tx"><b>같은 그림 찾기</b><span class="d">왼쪽 그림과 똑같은 그림을 찾아 손가락으로 ○ 해요.</span></span></button></li><li data-anchor><button type="button" class="tv-key" data-n="3" aria-pressed="false"><span class="tv-no" aria-hidden="true">3</span><span class="tv-tx"><b>닫기</b><span class="d">길게 눌러야 닫혀서, 놀다가 잘못 닫히지 않아요.</span></span></button></li></ol></div>
 <p class="tv-tip" data-anchor><b>요금</b>영아기(2~4세) 놀이는 무료예요.</p>
 <button type="button" class="tv-next">처음으로: 학습 →</button>
 </article>
